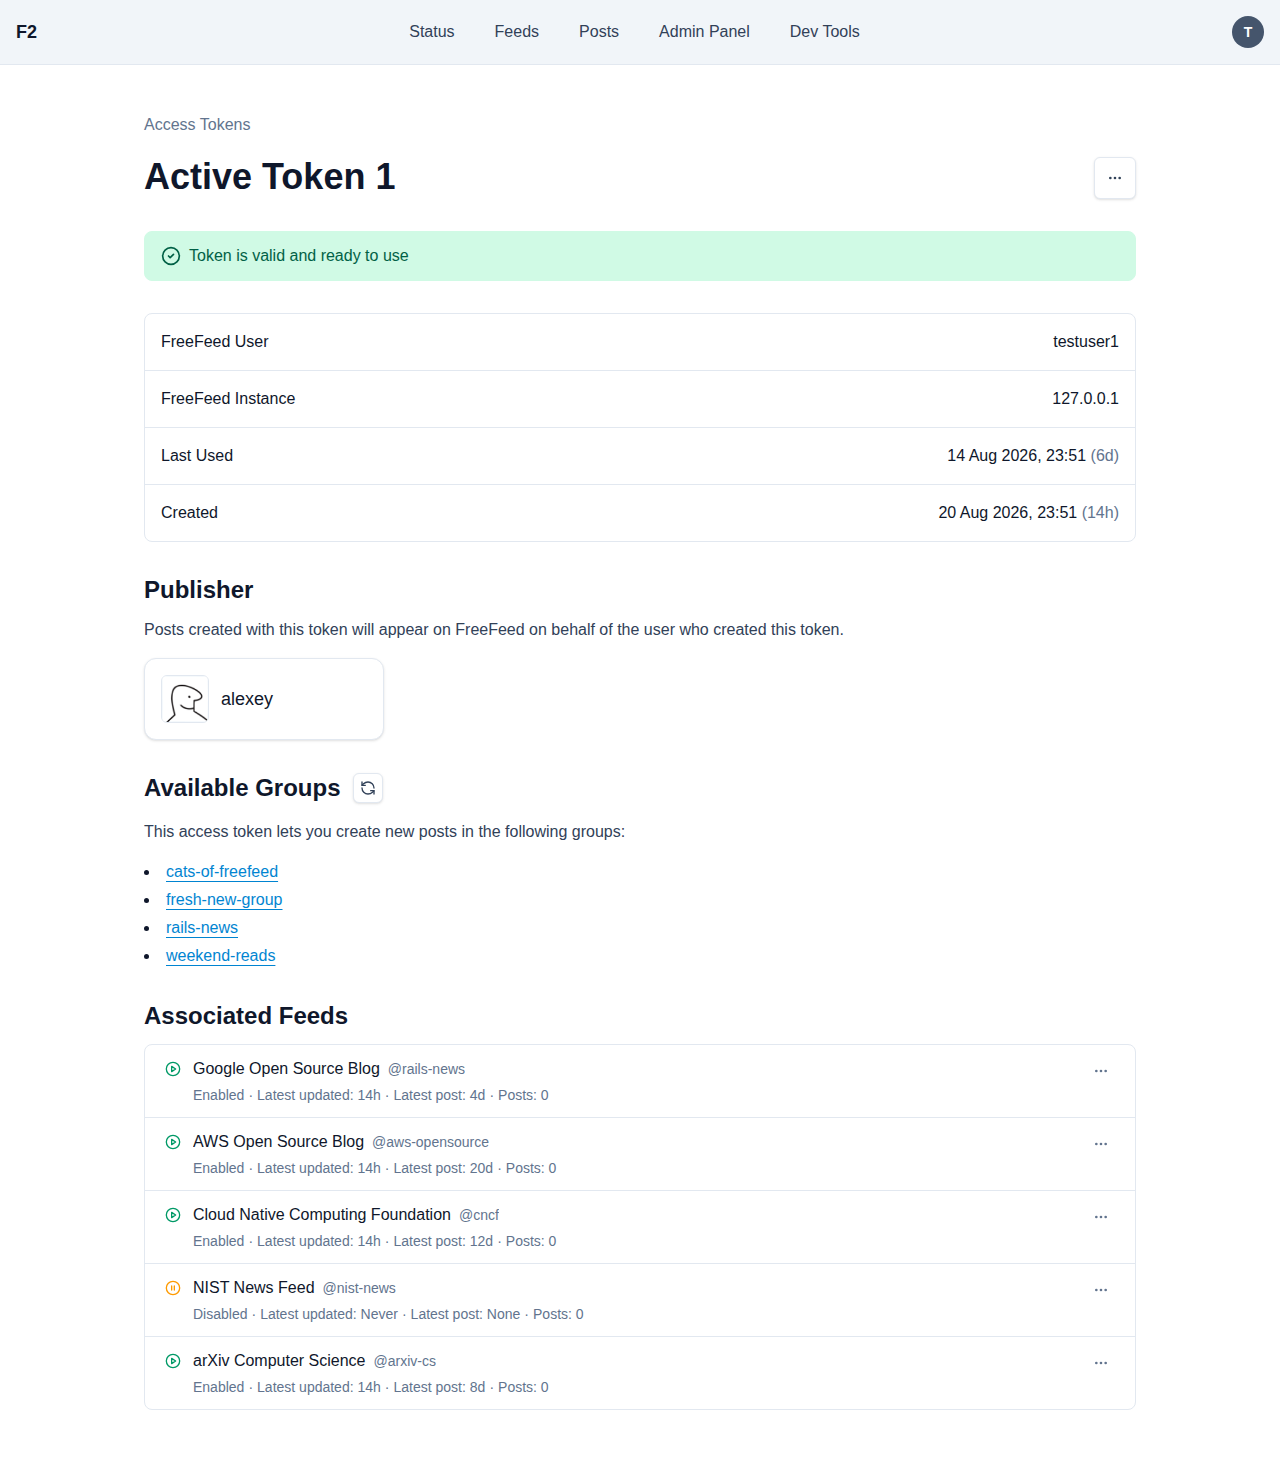
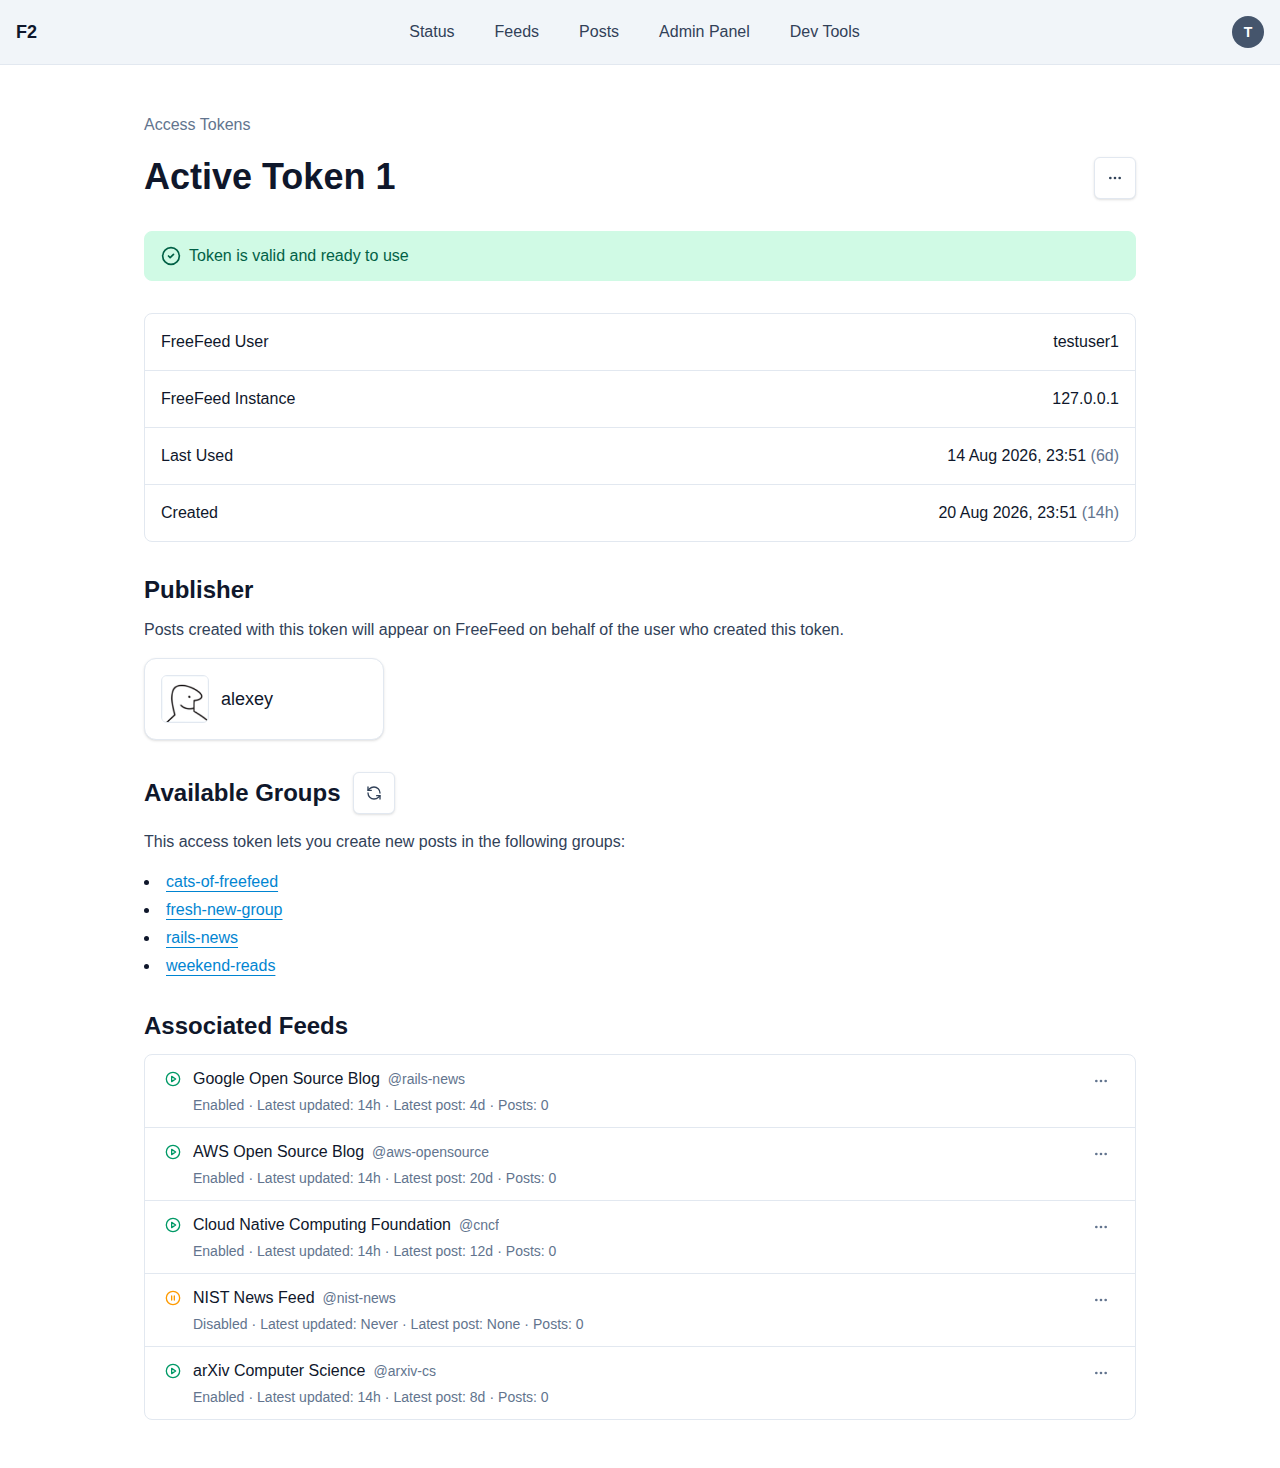
Drop refresh button padding parameterization
Keep RefreshButtonComponent's single canonical size instead of letting
call sites tune its internals; the group-list refresh controls use the
standard button, and the screenshots are re-captured to match.

Claude-Session: https://claude.ai/code/session_01PWt1UdWxuysAXroReMXf6u

diff --git a/app/components/refresh_button_component.rb b/app/components/refresh_button_component.rb
@@ -1,5 +1,5 @@
 class RefreshButtonComponent < ViewComponent::Base
-  BUTTON_CLASSES = "inline-flex items-center justify-center rounded-md border border-border bg-surface " \
+  BUTTON_CLASSES = "inline-flex items-center justify-center rounded-md border border-border bg-surface p-3 " \
     "text-body shadow-sm transition hover:bg-surface-muted focus:outline-none focus:ring-2 focus:ring-ring " \
     "focus:ring-offset-1 cursor-pointer disabled:cursor-not-allowed disabled:opacity-50".freeze
 
@@ -21,12 +21,8 @@ class RefreshButtonComponent < ViewComponent::Base
   # or a form submit, where the form hosts the loading-button controller:
   #
   #   render RefreshButtonComponent.new(title: "Refresh now", type: "submit")
-  #
-  # `padding` sizes the button: the default suits page headers, "p-1.5" makes
-  # a compact inline control (e.g. next to a form label).
-  def initialize(title: "Refresh", padding: "p-3", **attrs)
+  def initialize(title: "Refresh", **attrs)
     @title = title
-    @padding = padding
     @attrs = attrs
   end
 
@@ -37,7 +33,7 @@ class RefreshButtonComponent < ViewComponent::Base
     {
       type: attrs.delete(:type) || "button",
       title: @title,
-      class: [BUTTON_CLASSES, @padding, attrs.delete(:class)],
+      class: [BUTTON_CLASSES, attrs.delete(:class)],
       data: { loading_button_target: "button" }.merge(attrs.delete(:data) || {})
     }.merge(attrs)
   end

diff --git a/test/components/refresh_button_component_test.rb b/test/components/refresh_button_component_test.rb
@@ -22,14 +22,6 @@ class RefreshButtonComponentTest < ViewComponent::TestCase
     assert_includes loading_icon["class"], "hidden"
   end
 
-  test "#render should size the button via the padding option" do
-    assert_includes render_inline(RefreshButtonComponent.new).at_css("button")["class"], "p-3"
-
-    compact = render_inline(RefreshButtonComponent.new(padding: "p-1.5")).at_css("button")
-    assert_includes compact["class"], "p-1.5"
-    assert_not_includes compact["class"], "p-3"
-  end
-
   test "#render should merge arbitrary attributes onto the button" do
     result = render_inline(RefreshButtonComponent.new(type: "submit", class: "extra", data: {
       controller: "refresh-trigger loading-button",
